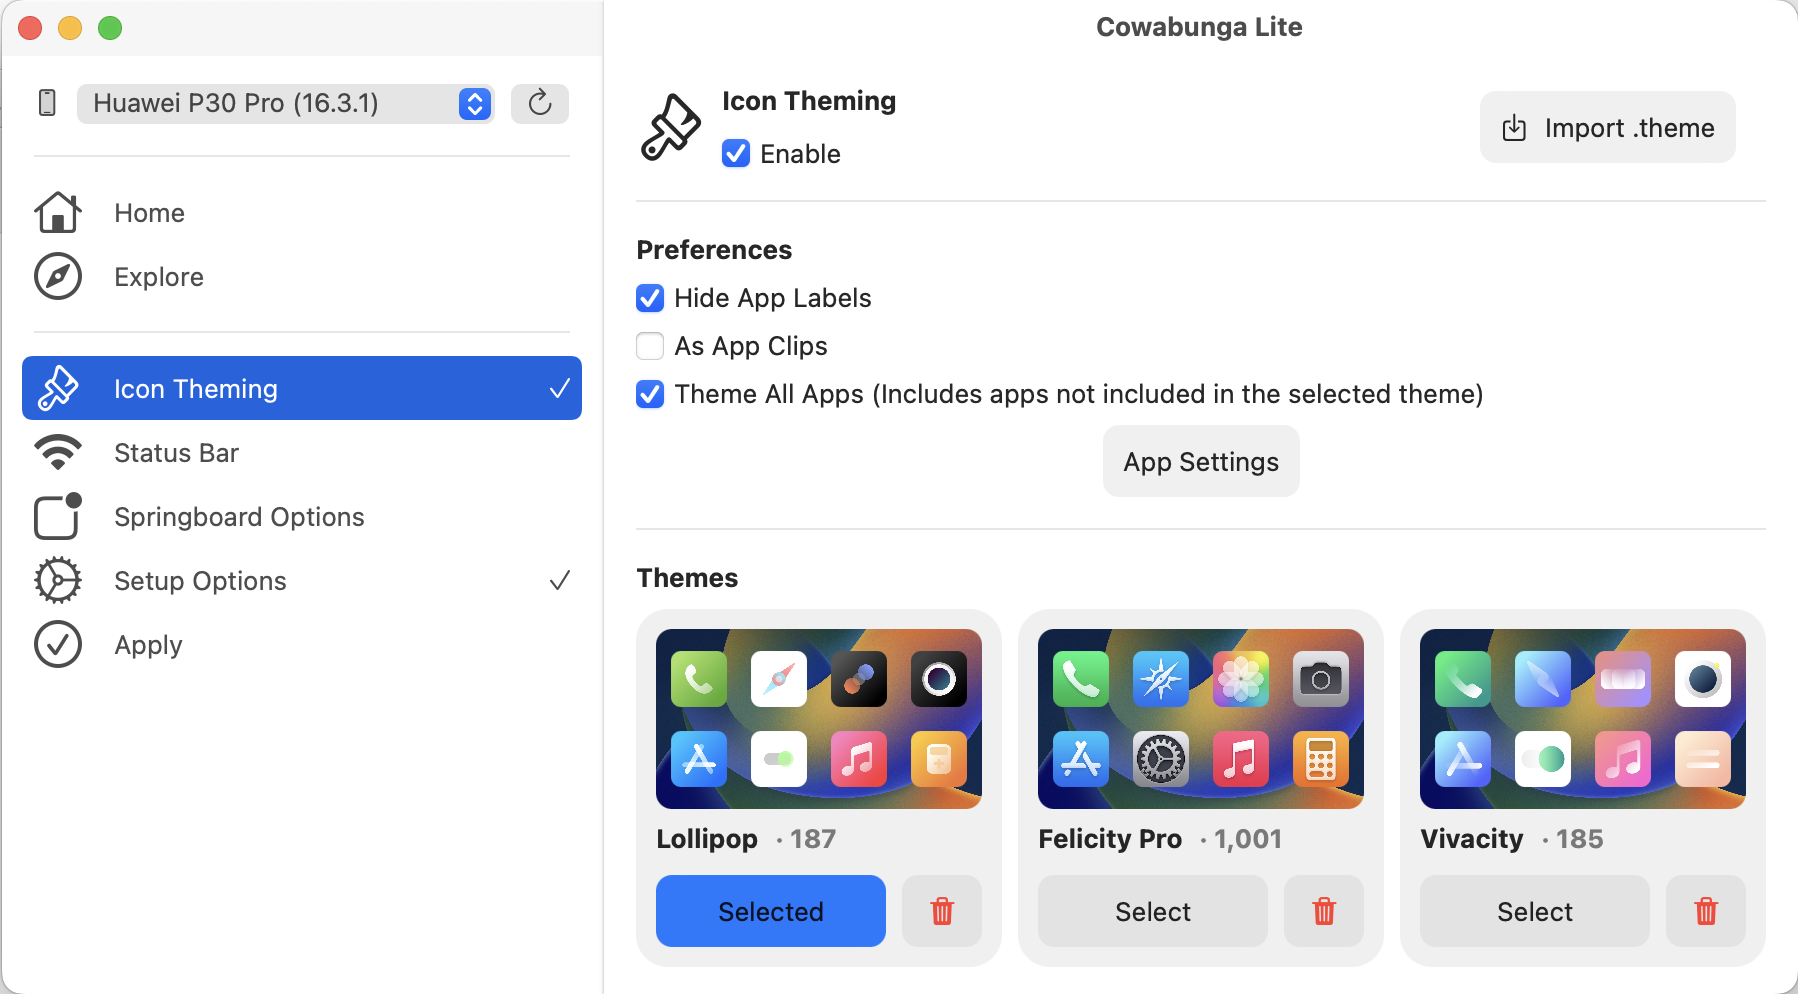
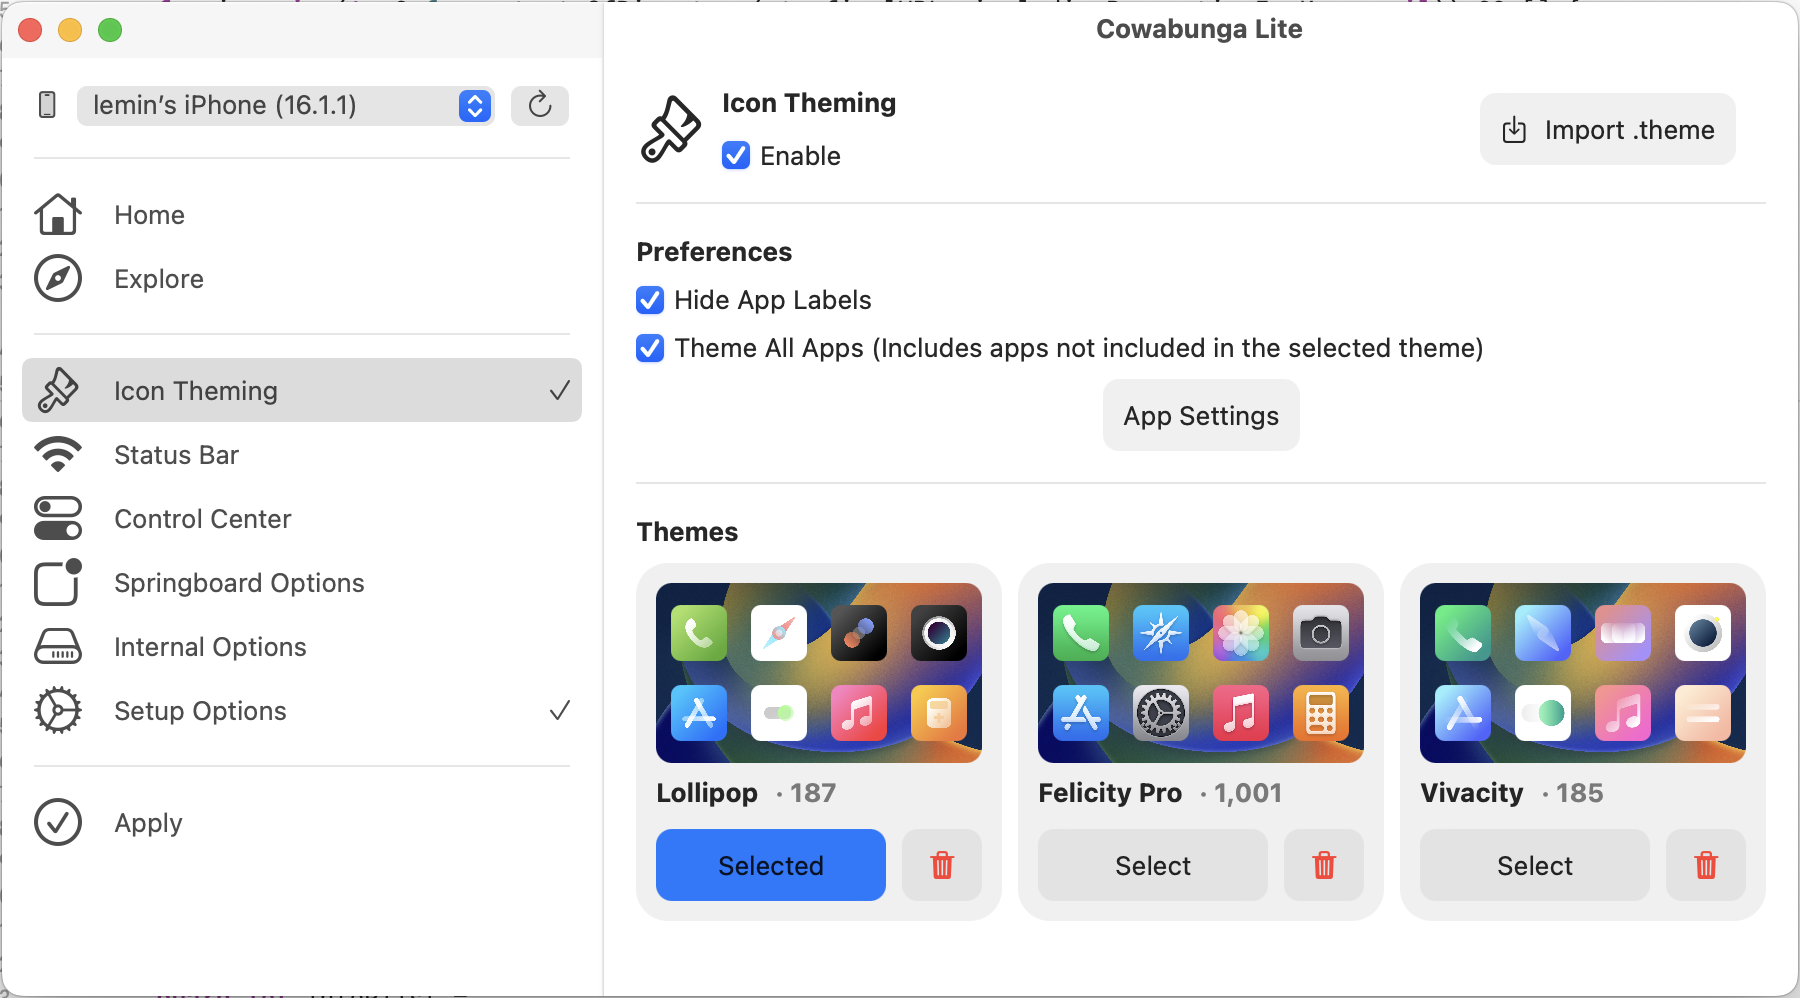
bortbite :trollface:

diff --git a/Cowabunga Lite/Views/Themes/ThemingView.swift b/Cowabunga Lite/Views/Themes/ThemingView.swift
@@ -109,8 +109,18 @@ struct ThemingView: View {
                             .padding(.vertical, 5)
                         
                         Group {
-                            Text("Overlays")
-                                .bold()
+                            HStack {
+                                Text("Overlays")
+                                    .bold()
+                                ZStack {
+                                    Rectangle()
+                                        .cornerRadius(50)
+                                        .foregroundColor(.blue)
+                                        .frame(maxWidth: 50)
+                                    Text("Beta")
+                                        .foregroundColor(.white)
+                                }
+                            }
                             LazyVGrid(columns: overlayGridItemLayout, spacing: 20) {
                                 ForEach(overlays) { ov in
                                     NiceButton(text: AnyView(

diff --git a/Cowabunga Lite/Views/Tools/ControlCenterView.swift b/Cowabunga Lite/Views/Tools/ControlCenterView.swift
@@ -60,14 +60,6 @@ struct ControlCenterView: View {
                         HStack {
                             Text("Control Center")
                                 .bold()
-                            ZStack {
-                                Rectangle()
-                                    .cornerRadius(50)
-                                    .foregroundColor(.blue)
-                                    .frame(maxWidth: 50)
-                                Text("Beta")
-                                    .foregroundColor(.white)
-                            }
                             Spacer()
                         }
                         HStack {

diff --git a/README.md b/README.md
@@ -29,6 +29,9 @@ Simply download the .zip that is for your MacOS version and run the app. Plug in
 - Status Bar
     - Change carrier name
     - Change secondary carrier name
+    - Enable/Disable the primary or secondary carriers
+    - Change the number of WiFi/Cellular bars
+    - Change the battery capacity
     - Change battery display detail
     - Change time text
     - Change date text (iPad only)
@@ -36,20 +39,33 @@ Simply download the .zip that is for your MacOS version and run the app. Plug in
     - Show numeric WiFi/Cellular strength
     - Hide many icons in the status bar
 
+- Control Center
+    - Enable Mute Module
+    - Enable Focus UI Module
+    - Enable Siri Spoken Notifications Module
+    - Choose Presets (or make your own in the `Control Center` section of the `Settings` app)
+
 - Springboard Options
     - Set UI Animation Speed
     - Set Lock Screen Footnote
     - Toggles:
         - Set Airdrop to Everyone
-        - Enable Accessory Developer
-        - Show Known WiFi Networks (iOS 15)
-        - Show WiFi Debugger
+        - Shutdown Sound from iPhone 14
         - Disable Lock After Respring
         - Disable Screen Dimming While Charging
         - Disable Low Battery Alerts
         - CC Enabled on Lock Screen
-        - Mute Module in CC
-        - Build Version in Status Bar
+
+- Internal Options
+    - Build Version in Status Bar
+    - Force Right to Left
+    - Force Metal HUD Debug
+    - Accessory Diagnostics
+    - iMessage Diagnostics
+    - IDS Diagnostics
+    - VC Diagnostics
+    - App Store Debug Gesture
+    - Notes App Debug Mode
 
 - Setup Options
     - Skip Restore Setup
@@ -59,49 +75,59 @@ Simply download the .zip that is for your MacOS version and run the app. Plug in
 
 ## Screenshots
 <picture>
-  <source media="(prefers-color-scheme: dark)" srcset="https://github.com/Avangelista/CowabungaLite/blob/main/Images/Dark/Home.png">
-  <source media="(prefers-color-scheme: light)" srcset="https://github.com/Avangelista/CowabungaLite/blob/main/Images/Light/Home.png">
-  <img alt="Home Page" src="https://github.com/Avangelista/CowabungaLite/blob/main/Images/Dark/Home.png">
+  <source media="(prefers-color-scheme: dark)" srcset="https://github.com/LeminLimez/CowabungaLite/blob/main/Images/Dark/Home.png">
+  <source media="(prefers-color-scheme: light)" srcset="https://github.com/LeminLimez/CowabungaLite/blob/main/Images/Light/Home.png">
+  <img alt="Home Page" src="https://github.com/LeminLimez/CowabungaLite/blob/main/Images/Dark/Home.png">
 </picture>
 <picture>
-  <source media="(prefers-color-scheme: dark)" srcset="https://github.com/Avangelista/CowabungaLite/blob/main/Images/Dark/Explore.png">
-  <source media="(prefers-color-scheme: light)" srcset="https://github.com/Avangelista/CowabungaLite/blob/main/Images/Light/Explore.png">
-  <img alt="Explore Page" src="https://github.com/Avangelista/CowabungaLite/blob/main/Images/Dark/Explore.png">
+  <source media="(prefers-color-scheme: dark)" srcset="https://github.com/LeminLimez/CowabungaLite/blob/main/Images/Dark/Explore.png">
+  <source media="(prefers-color-scheme: light)" srcset="https://github.com/LeminLimez/CowabungaLite/blob/main/Images/Light/Explore.png">
+  <img alt="Explore Page" src="https://github.com/LeminLimez/CowabungaLite/blob/main/Images/Dark/Explore.png">
 </picture>
 <picture>
-  <source media="(prefers-color-scheme: dark)" srcset="https://github.com/Avangelista/CowabungaLite/blob/main/Images/Dark/Theming.png">
-  <source media="(prefers-color-scheme: light)" srcset="https://github.com/Avangelista/CowabungaLite/blob/main/Images/Light/Theming.png">
-  <img alt="Theming" src="https://github.com/Avangelista/CowabungaLite/blob/main/Images/Dark/Theming.png">
+  <source media="(prefers-color-scheme: dark)" srcset="https://github.com/LeminLimez/CowabungaLite/blob/main/Images/Dark/Theming.png">
+  <source media="(prefers-color-scheme: light)" srcset="https://github.com/LeminLimez/CowabungaLite/blob/main/Images/Light/Theming.png">
+  <img alt="Theming" src="https://github.com/LeminLimez/CowabungaLite/blob/main/Images/Dark/Theming.png">
 </picture>
 <picture>
-  <source media="(prefers-color-scheme: dark)" srcset="https://github.com/Avangelista/CowabungaLite/blob/main/Images/Dark/AppSettings.png">
-  <source media="(prefers-color-scheme: light)" srcset="https://github.com/Avangelista/CowabungaLite/blob/main/Images/Light/AppSettings.png">
-  <img alt="App Settings" src="https://github.com/Avangelista/CowabungaLite/blob/main/Images/Dark/AppSettings.png">
+  <source media="(prefers-color-scheme: dark)" srcset="https://github.com/LeminLimez/CowabungaLite/blob/main/Images/Dark/AppSettings.png">
+  <source media="(prefers-color-scheme: light)" srcset="https://github.com/LeminLimez/CowabungaLite/blob/main/Images/Light/AppSettings.png">
+  <img alt="App Settings" src="https://github.com/LeminLimez/CowabungaLite/blob/main/Images/Dark/AppSettings.png">
 </picture>
 <picture>
-  <source media="(prefers-color-scheme: dark)" srcset="https://github.com/Avangelista/CowabungaLite/blob/main/Images/Dark/SingleApp.png">
-  <source media="(prefers-color-scheme: light)" srcset="https://github.com/Avangelista/CowabungaLite/blob/main/Images/Light/SingleApp.png">
-  <img alt="Single App Settings" src="https://github.com/Avangelista/CowabungaLite/blob/main/Images/Dark/SingleApp.png">
+  <source media="(prefers-color-scheme: dark)" srcset="https://github.com/LeminLimez/CowabungaLite/blob/main/Images/Dark/SingleApp.png">
+  <source media="(prefers-color-scheme: light)" srcset="https://github.com/LeminLimez/CowabungaLite/blob/main/Images/Light/SingleApp.png">
+  <img alt="Single App Settings" src="https://github.com/LeminLimez/CowabungaLite/blob/main/Images/Dark/SingleApp.png">
 </picture>
 <picture>
-  <source media="(prefers-color-scheme: dark)" srcset="https://github.com/Avangelista/CowabungaLite/blob/main/Images/Dark/StatusBar.png">
-  <source media="(prefers-color-scheme: light)" srcset="https://github.com/Avangelista/CowabungaLite/blob/main/Images/Light/StatusBar.png">
-  <img alt="Status Bar" src="https://github.com/Avangelista/CowabungaLite/blob/main/Images/Dark/StatusBar.png">
+  <source media="(prefers-color-scheme: dark)" srcset="https://github.com/LeminLimez/CowabungaLite/blob/main/Images/Dark/StatusBar.png">
+  <source media="(prefers-color-scheme: light)" srcset="https://github.com/LeminLimez/CowabungaLite/blob/main/Images/Light/StatusBar.png">
+  <img alt="Status Bar" src="https://github.com/LeminLimez/CowabungaLite/blob/main/Images/Dark/StatusBar.png">
 </picture>
 <picture>
-  <source media="(prefers-color-scheme: dark)" srcset="https://github.com/Avangelista/CowabungaLite/blob/main/Images/Dark/SpringboardOptions.png">
-  <source media="(prefers-color-scheme: light)" srcset="https://github.com/Avangelista/CowabungaLite/blob/main/Images/Light/SpringboardOptions.png">
-  <img alt="Springboard Options" src="https://github.com/Avangelista/CowabungaLite/blob/main/Images/Dark/SpringboardOptions.png">
+  <source media="(prefers-color-scheme: dark)" srcset="https://github.com/LeminLimez/CowabungaLite/blob/main/Images/Dark/ControlCenter.png">
+  <source media="(prefers-color-scheme: light)" srcset="https://github.com/LeminLimez/CowabungaLite/blob/main/Images/Light/ControlCenter.png">
+  <img alt="Status Bar" src="https://github.com/LeminLimez/CowabungaLite/blob/main/Images/Dark/ControlCenter.png">
 </picture>
 <picture>
-  <source media="(prefers-color-scheme: dark)" srcset="https://github.com/Avangelista/CowabungaLite/blob/main/Images/Dark/SetupOptions.png">
-  <source media="(prefers-color-scheme: light)" srcset="https://github.com/Avangelista/CowabungaLite/blob/main/Images/Light/SetupOptions.png">
-  <img alt="Setup Options" src="https://github.com/Avangelista/CowabungaLite/blob/main/Images/Dark/SetupOptions.png">
+  <source media="(prefers-color-scheme: dark)" srcset="https://github.com/LeminLimez/CowabungaLite/blob/main/Images/Dark/SpringboardOptions.png">
+  <source media="(prefers-color-scheme: light)" srcset="https://github.com/LeminLimez/CowabungaLite/blob/main/Images/Light/SpringboardOptions.png">
+  <img alt="Springboard Options" src="https://github.com/LeminLimez/CowabungaLite/blob/main/Images/Dark/SpringboardOptions.png">
 </picture>
 <picture>
-  <source media="(prefers-color-scheme: dark)" srcset="https://github.com/Avangelista/CowabungaLite/blob/main/Images/Dark/Apply.png">
-  <source media="(prefers-color-scheme: light)" srcset="https://github.com/Avangelista/CowabungaLite/blob/main/Images/Light/Apply.png">
-  <img alt="Apply Page" src="https://github.com/Avangelista/CowabungaLite/blob/main/Images/Dark/Apply.png">
+  <source media="(prefers-color-scheme: dark)" srcset="https://github.com/LeminLimez/CowabungaLite/blob/main/Images/Dark/InternalOptions.png">
+  <source media="(prefers-color-scheme: light)" srcset="https://github.com/LeminLimez/CowabungaLite/blob/main/Images/Light/InternalOptions.png">
+  <img alt="Springboard Options" src="https://github.com/LeminLimez/CowabungaLite/blob/main/Images/Dark/InternalOptions.png">
+</picture>
+<picture>
+  <source media="(prefers-color-scheme: dark)" srcset="https://github.com/LeminLimez/CowabungaLite/blob/main/Images/Dark/SetupOptions.png">
+  <source media="(prefers-color-scheme: light)" srcset="https://github.com/LeminLimez/CowabungaLite/blob/main/Images/Light/SetupOptions.png">
+  <img alt="Setup Options" src="https://github.com/LeminLimez/CowabungaLite/blob/main/Images/Dark/SetupOptions.png">
+</picture>
+<picture>
+  <source media="(prefers-color-scheme: dark)" srcset="https://github.com/LeminLimez/CowabungaLite/blob/main/Images/Dark/Apply.png">
+  <source media="(prefers-color-scheme: light)" srcset="https://github.com/LeminLimez/CowabungaLite/blob/main/Images/Light/Apply.png">
+  <img alt="Apply Page" src="https://github.com/LeminLimez/CowabungaLite/blob/main/Images/Dark/Apply.png">
 </picture>
 
 ## Building
